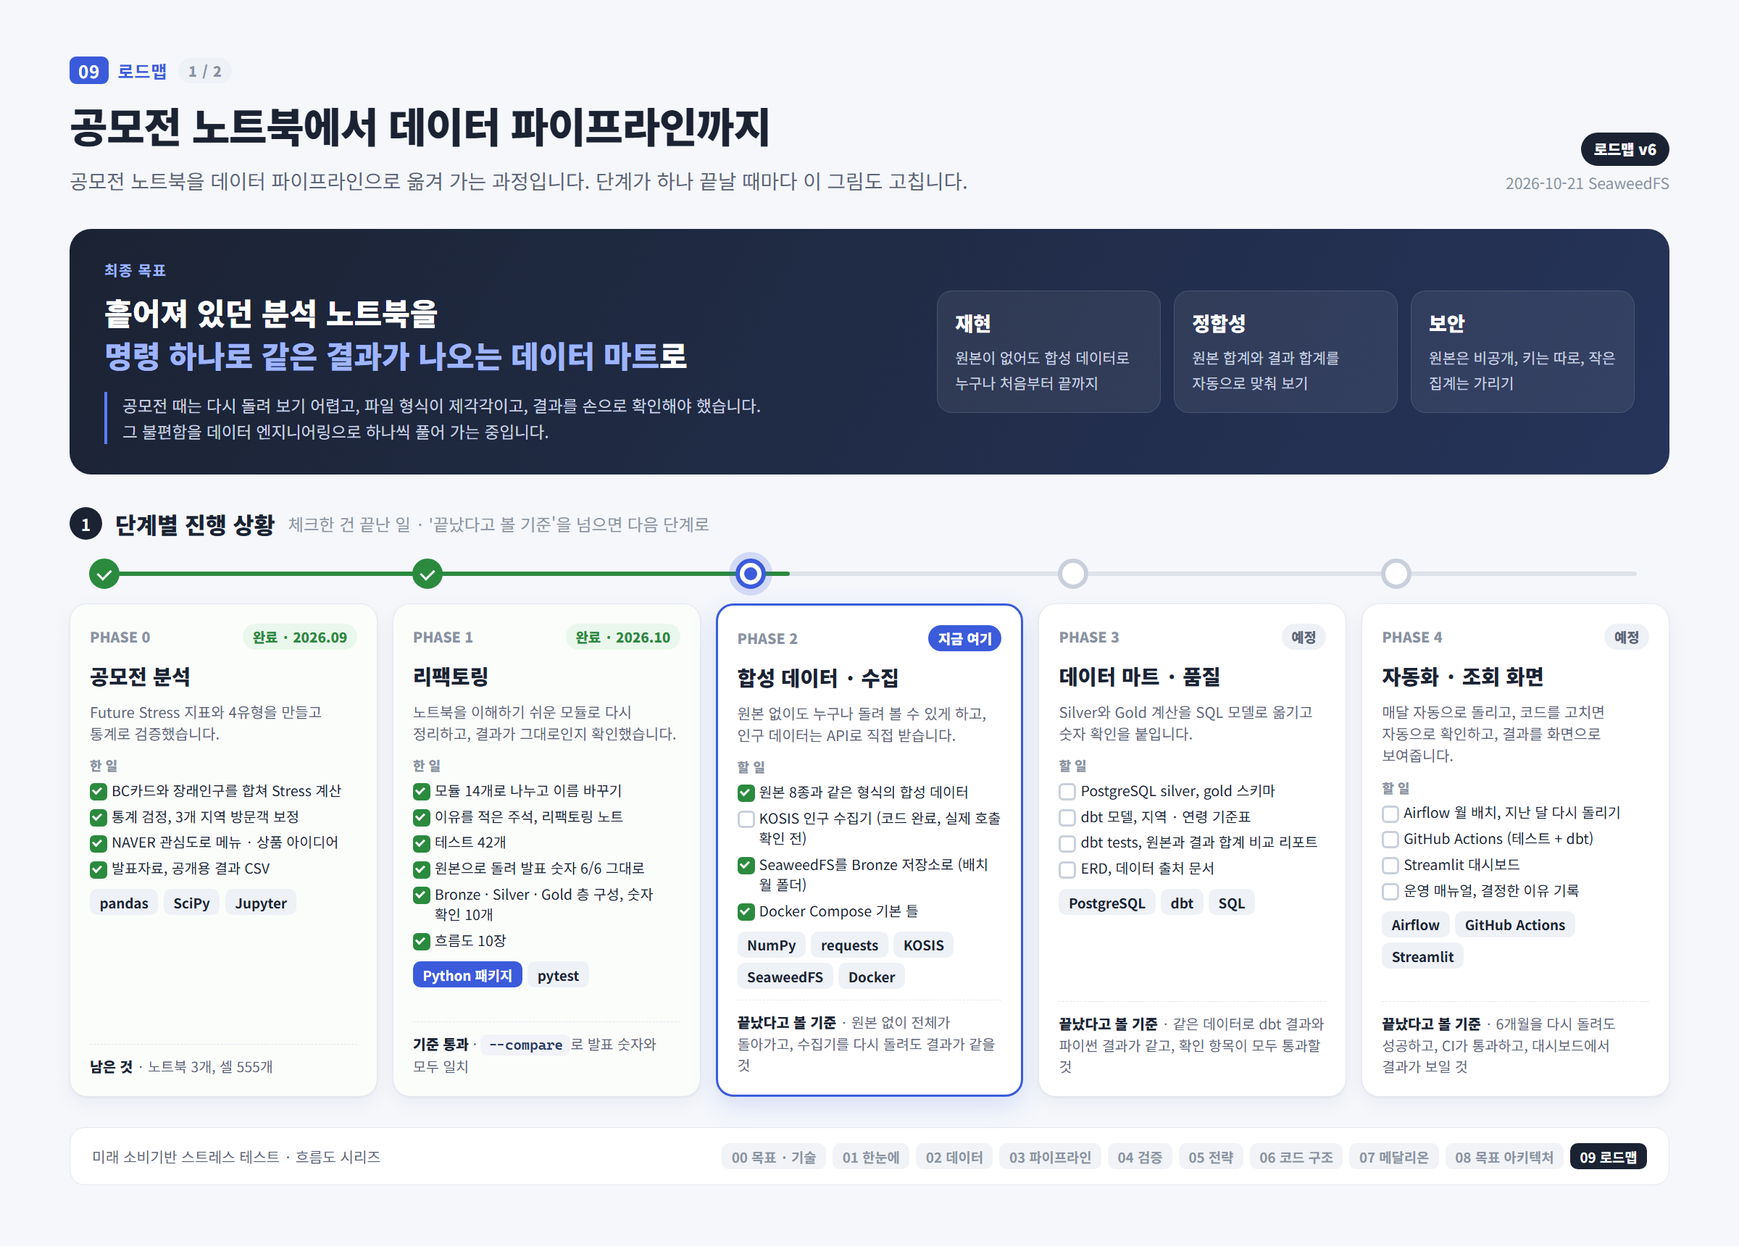
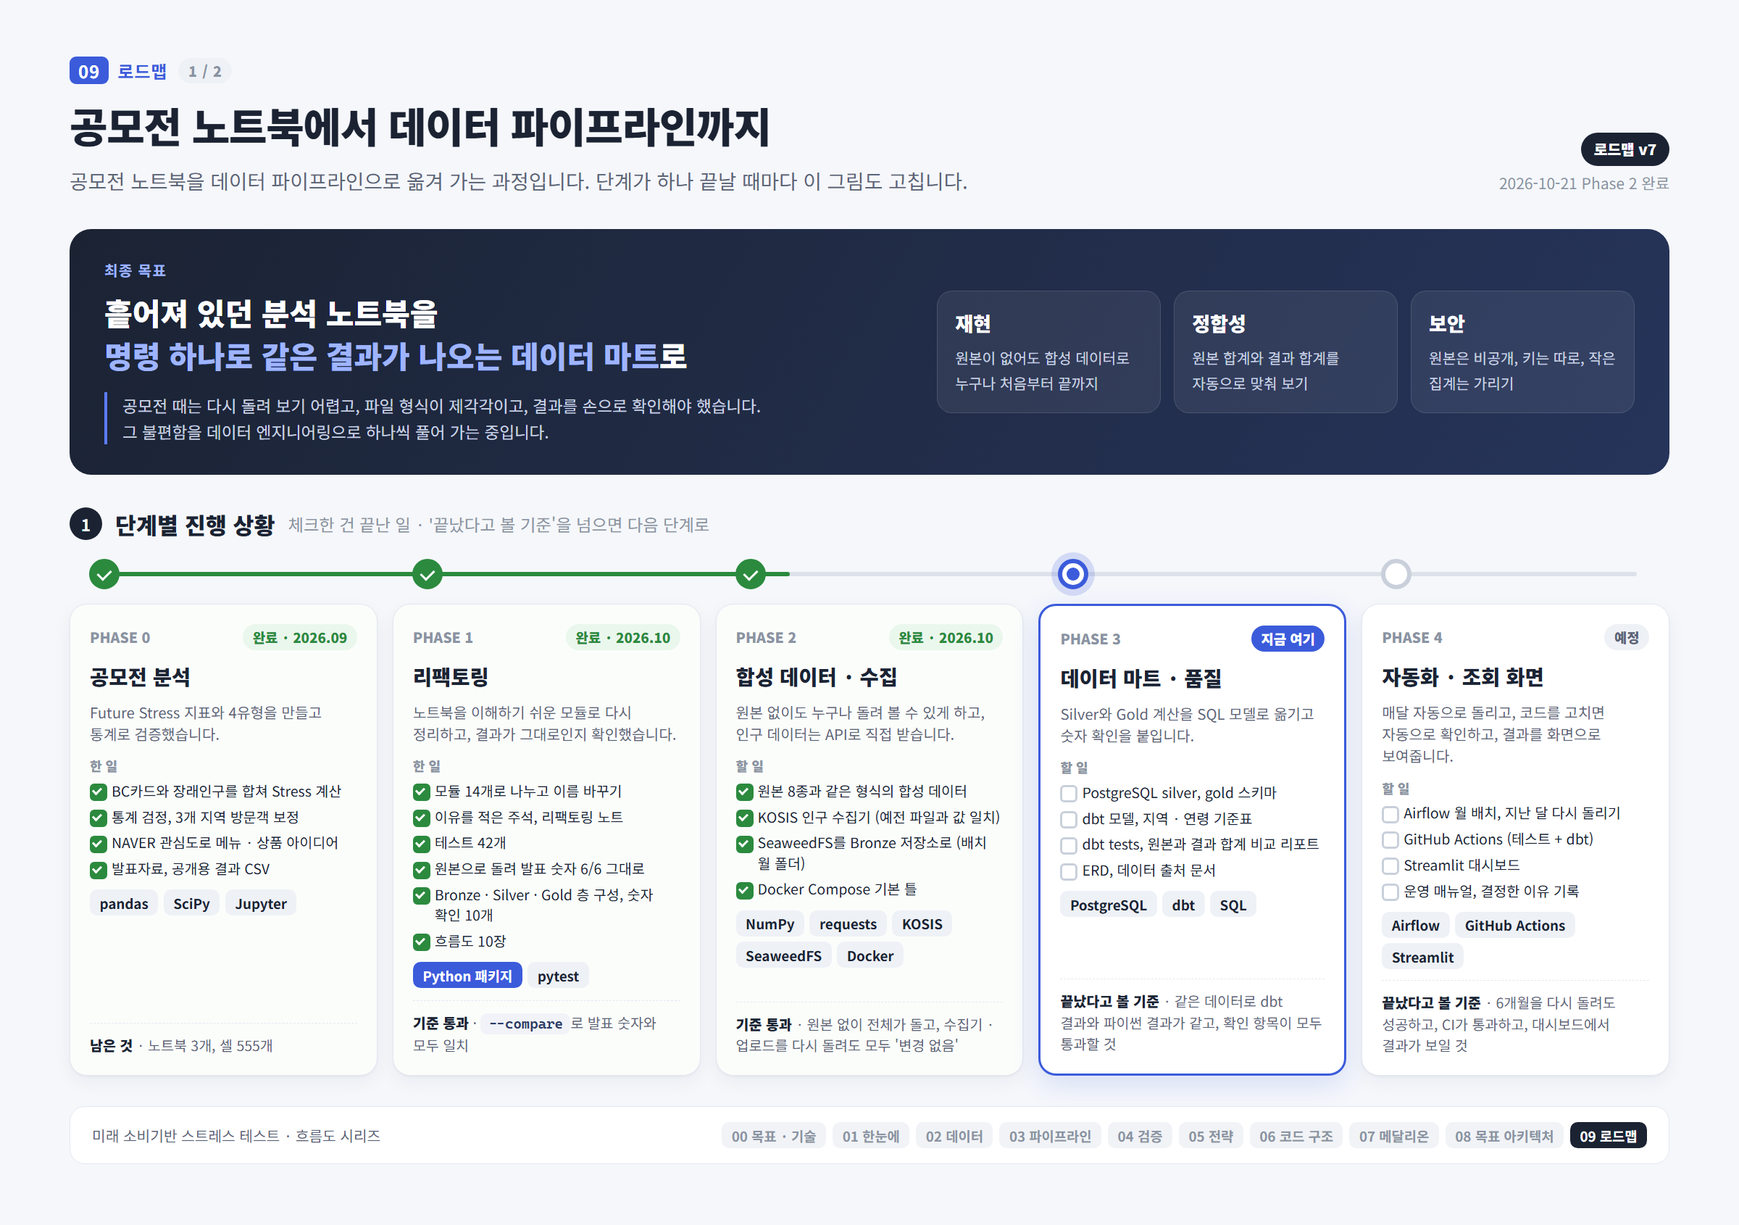
KOSIS API 실제 호출 결과 확인
- 서울 · 경기 × 4개 연도, 8번 요청 모두 성공 ('ALL' 요청 그대로 동작)
- 첫 비교에서 API에만 80칸씩: 시도 합계 행 이름이 원본마다 달랐음
  (API '서울' · '경기', 서울 CSV '합계', 경기 엑셀 '경기도')
  → 빼지 않고 '(시도 합계)'로 맞춰 합계 값까지 비교 (label_province_total)
- 결과: 서울 2,080칸 · 경기 2,560칸 모두 같음, 다시 받기 8개 모두 '변경 없음'
- 기록 09 · 작업 기록 · 리팩토링 노트, README, 흐름도 00 · 09 (Phase 2 완료, Phase 3 지금 여기)

diff --git a/docs/diagrams/09_roadmap.html b/docs/diagrams/09_roadmap.html
@@ -67,7 +67,7 @@
     <h1>공모전 노트북에서 데이터 파이프라인까지</h1>
     <p class="lede">공모전 노트북을 데이터 파이프라인으로 옮겨 가는 과정입니다. 단계가 하나 끝날 때마다 이 그림도 고칩니다.</p>
   </div>
-  <div class="version"><b>로드맵 v6</b><br>2026-10-21 SeaweedFS</div>
+  <div class="version"><b>로드맵 v7</b><br>2026-10-21 Phase 2 완료</div>
 </div>
 
 <div data-part="1" class="goal">
@@ -118,23 +118,23 @@
         <div class="dod"><b>기준 통과</b> · <code>--compare</code>로 발표 숫자와 모두 일치</div>
       </div></div>
 
-    <div class="phase now"><span class="marker"></span>
+    <div class="phase done"><span class="marker"></span>
       <div class="card p-card">
-        <div class="p-head"><span class="p-no">PHASE 2</span><span class="status s-now">지금 여기</span></div>
+        <div class="p-head"><span class="p-no">PHASE 2</span><span class="status s-done">완료 · 2026.10</span></div>
         <h4>합성 데이터 · 수집</h4>
         <p class="p-goal">원본 없이도 누구나 돌려 볼 수 있게 하고, 인구 데이터는 API로 직접 받습니다.</p>
         <div><div class="block-label">할 일</div><ul class="todo">
           <li class="ok">원본 8종과 같은 형식의 합성 데이터</li>
-          <li>KOSIS 인구 수집기 (코드 완료, 실제 호출 확인 전)</li>
+          <li class="ok">KOSIS 인구 수집기 (예전 파일과 값 일치)</li>
           <li class="ok">SeaweedFS를 Bronze 저장소로 (배치 월 폴더)</li>
           <li class="ok">Docker Compose 기본 틀</li></ul></div>
         <div class="techs"><span class="tech">NumPy</span><span class="tech">requests</span><span class="tech">KOSIS</span><span class="tech">SeaweedFS</span><span class="tech">Docker</span></div>
-        <div class="dod"><b>끝났다고 볼 기준</b> · 원본 없이 전체가 돌아가고, 수집기를 다시 돌려도 결과가 같을 것</div>
+        <div class="dod"><b>기준 통과</b> · 원본 없이 전체가 돌고, 수집기 · 업로드를 다시 돌려도 모두 '변경 없음'</div>
       </div></div>
 
-    <div class="phase"><span class="marker"></span>
+    <div class="phase now"><span class="marker"></span>
       <div class="card p-card">
-        <div class="p-head"><span class="p-no">PHASE 3</span><span class="status s-next">예정</span></div>
+        <div class="p-head"><span class="p-no">PHASE 3</span><span class="status s-now">지금 여기</span></div>
         <h4>데이터 마트 · 품질</h4>
         <p class="p-goal">Silver와 Gold 계산을 SQL 모델로 옮기고 숫자 확인을 붙입니다.</p>
         <div><div class="block-label">할 일</div><ul class="todo">
@@ -171,7 +171,7 @@
         <div class="log-row"><span class="date">2026-10-20</span><span class="dot" style="background:var(--green)"></span><div><b>Phase 1 리팩토링</b><p>모듈 13개, 테스트 38개로 정리하고 발표 숫자 6/6을 그대로 다시 냈습니다. 정리하다가 서울 90세 이상 누락 같은 문제를 새로 찾았습니다.</p></div></div>
         <div class="log-row"><span class="date">2026-10-21</span><span class="dot" style="background:var(--green)"></span><div><b>Bronze · Silver · Gold 구성</b><p>원본 보관, Parquet 6개, Parquet 16개로 나누고, 층 사이 숫자 확인 10개를 통과했습니다. 발표 숫자도 그대로입니다.</p></div></div>
         <div class="log-row"><span class="date">2026-10-21</span><span class="dot" style="background:var(--green)"></span><div><b>합성 데이터 생성기</b><p>원본 8종과 형식이 같은 파일을 만들어, 원본 없이도 숫자 확인 10개를 통과했습니다. 성별 코드 x, 업종명 공백처럼 원본에서 애먹었던 부분도 그대로 넣었습니다.</p></div></div>
-        <div class="log-row"><span class="date">2026-10-21</span><span class="dot" style="background:var(--amber)"></span><div><b>KOSIS 인구 수집기</b><p>서울 · 경기 장래인구를 API로 받는 코드와 테스트를 만들었습니다. 인증키를 넣고 예전 파일과 값이 같은지 확인하는 일이 남았습니다.</p></div></div>
+        <div class="log-row"><span class="date">2026-10-21</span><span class="dot" style="background:var(--green)"></span><div><b>KOSIS 인구 수집기</b><p>서울 · 경기 장래인구를 API로 받아, 예전에 내려받은 파일과 4,640칸이 모두 같은 것을 확인했습니다. 시도 합계 행 이름이 원본마다 달라 처음엔 불일치가 났습니다.</p></div></div>
         <div class="log-row"><span class="date">2026-10-21</span><span class="dot" style="background:var(--green)"></span><div><b>Bronze를 SeaweedFS로</b><p>MinIO 무료판 이미지가 사라져 같은 S3 방식의 SeaweedFS로 바꿨습니다. 원본 60개를 배치 월 폴더에 올리고 받아 지문을 맞춰 봤고, 발표 숫자도 그대로입니다.</p></div></div>
         <div class="log-row"><span class="date">다음</span><span class="dot" style="background:var(--primary)"></span><div><b>Phase 3 · PostgreSQL과 dbt</b><p>Silver · Gold 계산을 SQL 모델로 옮기고, 숫자 확인 10개를 dbt tests로 옮길 계획입니다.</p></div></div>
       </div>

diff --git a/docs/diagrams/00_goal_and_stack.html b/docs/diagrams/00_goal_and_stack.html
@@ -134,9 +134,9 @@
         <td class="alt-cell"><b>원본 공개</b> · 재배포가 안 됩니다. <b>Faker</b> · 이름, 주소가 아니라 숫자 분포만 필요합니다.</td>
       </tr>
       <tr>
-        <td class="layer-cell"><span class="lname">수집</span><br><span class="lphase t-primary">Phase 2</span></td>
+        <td class="layer-cell"><span class="lname">수집</span><br><span class="lphase t-green">Phase 2 · 사용 중</span></td>
         <td class="tech-cell"><span class="tname">requests</span><span class="tsub">KOSIS, NAVER API</span></td>
-        <td class="why-cell">인구 데이터를 매번 사이트에서 내려받던 일을 API로 바꿉니다. 실패하면 다시 시도하고, 같은 달을 두 번 받아도 결과가 같게 만듭니다.</td>
+        <td class="why-cell">사이트에서 내려받던 서울 · 경기 장래인구를 API로 바꿨습니다. 예전 파일과 <b>4,640칸이 모두 같았고</b>, 다시 받아도 파일이 바뀌지 않습니다.</td>
         <td class="alt-cell"><b>수동 다운로드</b> · 매달 반복하기 어렵고, 어떤 파일을 썼는지 기록이 남지 않았습니다.</td>
       </tr>
       <tr>

diff --git a/src/future_stress/kosis.py b/src/future_stress/kosis.py
@@ -43,6 +43,7 @@ import requests
 
 from . import config
 from .io_utils import read_env_value
+from .medallion import REGION_LABELS
 from .population import POPULATION_YEARS
 
 API_URL = "https://kosis.kr/openapi/Param/statisticsParameterData.do"
@@ -263,37 +264,45 @@ def find_dimension_columns(api_rows):
     return found
 
 
+# 시도 합계 행은 원본마다 이름이 달라서(API '서울' · '경기', 서울 CSV '합계', 경기 엑셀 '경기도') 한 이름으로 맞춥니다.
+# 빼지 않고 맞추는 이유: 시도 합계 값까지 API와 파일이 같은지 비교하기 위해서입니다.
+PROVINCE_TOTAL = "(시도 합계)"
+
+
+def label_province_total(regions, province):
+    """지역 이름 중 시도 합계 행(예: 서울특별시 · 서울 · 합계)을 PROVINCE_TOTAL로 바꿉니다."""
+    names = regions.astype(str).str.strip()
+    total_names = {province, REGION_LABELS.get(province, province), "합계", "계"}
+    return names.where(~names.isin(total_names), PROVINCE_TOTAL)
+
+
 def five_year_population_from_api(api_rows, province):
-    """API 응답 → 시군구 | 연령구간 | 연도 | 인구 (남녀 합계, 5세 구간, 시도 합계 행 제외)"""
+    """API 응답 → 시군구 | 연령구간 | 연도 | 인구 (남녀 합계, 5세 구간, 시도 합계는 '(시도 합계)')"""
     frame = pd.DataFrame(api_rows)
     items = frame["ITM_NM"].unique() if "ITM_NM" in frame else []
     if len(items) > 1:
         raise ValueError(f"항목이 여러 개입니다. 어떤 항목을 쓸지 정해야 합니다: {list(items)}")
     columns = find_dimension_columns(api_rows)
-    keep = (
-        (frame[columns["성별"]] == "계")
-        & frame[columns["연령"]].map(is_five_year_label)
-        & ~frame[columns["지역"]].isin([province, "합계", "계"])
-    )
+    keep = (frame[columns["성별"]] == "계") & frame[columns["연령"]].map(is_five_year_label)
     selected = frame[keep]
     return pd.DataFrame({
-        "시군구": selected[columns["지역"]].str.strip(),
+        "시군구": label_province_total(selected[columns["지역"]], province),
         "연령구간": selected[columns["연령"]].map(normalize_age_label),
         "연도": selected["PRD_DE"].astype(int),
         "인구": pd.to_numeric(selected["DT"], errors="coerce"),
     }).reset_index(drop=True)
 
 
-def five_year_population_from_seoul_file(path, years):
+def five_year_population_from_seoul_file(path, years, province="서울특별시"):
     """예전에 내려받은 서울 CSV → 같은 모양의 표. (닫히지 않은 따옴표 때문에 csv 모듈로 읽음, population.py 참고)"""
     with open(path, "r", encoding="utf-8-sig", newline="") as file:
         rows = list(csv.reader(file))
     raw = pd.DataFrame(rows[1:], columns=[name.strip() for name in rows[0]])
-    selected = raw[(raw["성별"] == "계") & raw["연령별"].map(is_five_year_label) & (raw["자치구별"] != "합계")]
+    selected = raw[(raw["성별"] == "계") & raw["연령별"].map(is_five_year_label)]
     long = selected.melt(id_vars=["자치구별", "연령별"], value_vars=[f"{y} 년" for y in years],
                          var_name="연도", value_name="인구")
     return pd.DataFrame({
-        "시군구": long["자치구별"].str.strip(),
+        "시군구": label_province_total(long["자치구별"], province),
         "연령구간": long["연령별"].map(normalize_age_label),
         "연도": long["연도"].str.replace(" 년", "", regex=False).astype(int),
         "인구": pd.to_numeric(long["인구"], errors="coerce"),
@@ -305,10 +314,10 @@ def five_year_population_from_kosis_excel(path, province, years):
     raw = pd.read_excel(path, sheet_name=0, header=0)
     raw[["시군구별", "성별"]] = raw[["시군구별", "성별"]].ffill()
     selected = raw[(raw["성별"] == "계") & (raw["연령별(2)"] == "소계")
-                   & raw["연령별(1)"].map(is_five_year_label) & (raw["시군구별"] != province)]
+                   & raw["연령별(1)"].map(is_five_year_label)]
     long = selected.melt(id_vars=["시군구별", "연령별(1)"], value_vars=years, var_name="연도", value_name="인구")
     return pd.DataFrame({
-        "시군구": long["시군구별"].str.strip(),
+        "시군구": label_province_total(long["시군구별"], province),
         "연령구간": long["연령별(1)"].map(normalize_age_label),
         "연도": long["연도"].astype(int),
         "인구": pd.to_numeric(long["인구"], errors="coerce"),
@@ -359,7 +368,7 @@ def compare_with_files(kosis_dir=None, raw_dir=None, years=None):
         api_table = five_year_population_from_api(read_landing_rows(kosis_dir, table, years), table.province)
         file_path = raw_dir / table.file_name
         if file_path.suffix == ".csv":
-            file_table = five_year_population_from_seoul_file(file_path, years)
+            file_table = five_year_population_from_seoul_file(file_path, years, table.province)
         else:
             file_table = five_year_population_from_kosis_excel(file_path, table.province, years)
         summary, _ = compare_population(api_table, file_table)

diff --git a/tests/test_kosis.py b/tests/test_kosis.py
@@ -120,7 +120,7 @@ def test_collect_twice_gives_same_file(tmp_path):
 
 def test_api_rows_keep_only_five_year_totals():
     rows = [
-        api_row("경기도", "계", "0 - 4세", 2040, 999),          # 시도 합계 → 제외
+        api_row("경기", "계", "0 - 4세", 2040, 500),            # 시도 합계 (API는 짧은 이름) → '(시도 합계)'
         api_row("수원시", "계", "계", 2040, 999),               # 연령 합계 → 제외
         api_row("수원시", "계", "0세", 2040, 999),              # 1세 단위 → 제외
         api_row("수원시", "남자", "0 - 4세", 2040, 999),        # 남자 → 제외
@@ -129,6 +129,7 @@ def test_api_rows_keep_only_five_year_totals():
     ]
     table = five_year_population_from_api(rows, "경기도")
     assert table.to_dict("records") == [
+        {"시군구": "(시도 합계)", "연령구간": "0-4세", "연도": 2040, "인구": 500},
         {"시군구": "수원시", "연령구간": "0-4세", "연도": 2040, "인구": 10},
         {"시군구": "수원시", "연령구간": "95세이상", "연도": 2040, "인구": 3},
     ]

diff --git a/docs/notes/09_api_collection.md b/docs/notes/09_api_collection.md
@@ -11,6 +11,7 @@
 | 2026-10-21 | 서울 · 경기만 KOSIS API로 | KOSIS 검색으로 통계표를 직접 찾음. 부산 구군별 자료는 KOSIS에 없음 |
 | 2026-10-21 | 받은 응답을 가공 없이 저장 | Bronze 원칙과 같음. 가공 규칙이 틀려도 다시 받지 않게 |
 | 2026-10-21 | 인증키는 다른 프로젝트 `.env`를 `--env-file`로 가리킴 | 사용자 "원격 제어 중이라 pc에 넣을 수 없거든" → 키를 복사하지 않고 가리키기만. 실제 호출 확인은 키를 넣은 뒤 |
+| 2026-10-21 | 시도 합계 행은 빼지 않고 이름을 맞춰 비교 | 사용자 "kosis api key 넣었어 확인해줘" → 첫 비교에서 합계 행 이름 차이(API '서울' vs 파일 '합계')로 80칸 불일치. 합계 값까지 확인하려고 `(시도 합계)`로 통일 |
 
 ## 왜 필요했나
 
@@ -55,7 +56,19 @@
 
 - 가짜 응답으로 확인한 것: 연결 끊김 → 503 → 성공이면 결과를 받음, 인증키 만료면 한 번만 요청하고 멈춤, 같은 응답을 순서만 바꿔 두 번 받아도 같은 파일, 분류 순서가 섞여 있어도 지역 · 성별 · 연령을 찾음, 한 칸만 달라도 비교가 '불일치'를 냄 (`test_kosis.py`, 8개)
 - 통계표 ID는 KOSIS 검색에서 직접 찾았습니다. 경기 표는 예전 엑셀 파일의 시트 4개(연령별 · 주요연령계층별 · 주요인구지표 · 인구변동요인)와 구성이 같아 같은 통계임을 확인했습니다.
-- **아직 확인하지 못한 것:** 실제 KOSIS 서버 호출과 파일 비교. 인증키를 넣은 뒤 확인하고 이 문서에 결과를 덧붙입니다. 'ALL' 요청을 서버가 받아 주는지, 응답의 연령 표기가 예상과 같은지도 그때 확인합니다.
+**실제 KOSIS 호출 (2026-10-21, 인증키를 넣은 뒤)**
+
+| 확인 | 결과 |
+|---|---|
+| 'ALL' 요청 | 서버가 그대로 받아 줌. 오류 · 재시도 없이 8번 요청 모두 성공 |
+| 받은 양 | 서울 연도마다 9,048행, 경기 11,136행 (4개 연도 × 2개 표, 약 58MB) |
+| 분류 순서 | 둘 다 C1 = 지역, C2 = 성별, C3 = 연령 (값의 모양으로 찾은 결과) · 항목 '추계인구' 하나 · 단위 '명' |
+| 파일과 비교 | **서울 2,080칸 · 경기 2,560칸 모두 같음** (시도 합계 포함, 다른 칸 0) |
+| 두 번째 받기 | 8개 파일 모두 '변경 없음' (`_collect_log.jsonl`에 두 번 기록) |
+
+- **처음 비교는 '불일치'였습니다.** 값이 다른 칸은 0개였지만, API에만 있는 칸이 서울 · 경기 각 80개였습니다. 80 = 연령 구간 20개 × 연도 4개라서 지역 하나가 더 있다는 뜻이었고, 확인해 보니 **시도 합계 행의 이름이 원본마다 달랐습니다**(API '서울' · '경기', 서울 CSV '합계', 경기 엑셀 '경기도'). 코드는 '서울특별시' · '경기도'만 합계로 알아보고 빼서, API의 '서울' 행이 남았습니다.
+- 합계 행을 빼는 대신 양쪽 모두 `(시도 합계)`라는 같은 이름으로 맞췄습니다 (`kosis.label_province_total()`). 그래서 시도 합계 값까지 비교됐고, 결과는 모두 같았습니다.
+- **결론:** 서울 · 경기 장래인구는 API 값이 예전에 사이트에서 내려받은 파일과 칸 하나까지 같습니다. 파일 대신 API를 원본으로 써도 분석 결과가 바뀌지 않습니다.
 
 ## 다른 방법과 고르지 않은 이유
 

diff --git a/README.md b/README.md
@@ -51,8 +51,8 @@
 | Phase 0 | 공모전 분석 (노트북) | 완료 |
 | Phase 1 | 리팩토링: 노트북 → `src/future_stress` 모듈 + 테스트, 발표 결과 6/6 재현 ([리팩토링 노트](docs/refactoring_notes.md)) | 완료 |
 | Phase 1.5 | 메달리온 아키텍처 로컬 세팅: Bronze → Silver → Gold, 계층 사이 대사 10개 | 완료 |
-| Phase 2 | 합성 데이터 생성기 · SeaweedFS Bronze 저장소 · Docker Compose (완료), KOSIS 수집기 (코드 완료, 실제 호출 확인 전) | 진행 중 |
-| Phase 3 | PostgreSQL + dbt 데이터 마트 · 품질 검사 | 예정 |
+| Phase 2 | 합성 데이터 생성기 · KOSIS 수집기(파일과 값 일치 확인) · SeaweedFS Bronze 저장소 · Docker Compose | 완료 |
+| Phase 3 | PostgreSQL + dbt 데이터 마트 · 품질 검사 | 다음 |
 | Phase 4 | Airflow 배치 · CI · 대시보드 | 예정 |
 
 ## 분석 질문
@@ -112,7 +112,7 @@ Future Stress가 음수이면 현재 소비구조가 미래 인구감소에 더 
 | 데이터 구조 · 저장 | 메달리온 아키텍처 (Bronze · Silver · Gold), Parquet (pyarrow) | 사용 중 |
 | 테스트 | pytest | 사용 중 |
 | 합성 데이터 | NumPy 생성기 (원본 8종과 같은 형식, 시드 고정) | 사용 중 |
-| 수집 | requests (KOSIS 장래인구 수집기 · NAVER API) | 코드 완료, KOSIS 실제 호출 확인 전 |
+| 수집 | requests (KOSIS 장래인구 수집기 · NAVER API) | 사용 중 |
 | 원본 보관 | SeaweedFS (S3 호환, boto3), Docker Compose | 사용 중 |
 | 저장 · 변환 · 품질 | PostgreSQL, dbt, dbt tests | Phase 3 |
 | 운영 · 제공 | Airflow, GitHub Actions, Streamlit | Phase 4 |

diff --git a/docs/notes/PROGRESS.md b/docs/notes/PROGRESS.md
@@ -3,6 +3,13 @@
 날짜별로 무엇을, 왜(사용자 말), 어떻게 했고, 숫자로 무엇을 확인했는지 적습니다. 최신이 위입니다.
 기술마다 정리한 내용은 [README 목차](README.md)의 주제 문서에 있습니다.
 
+## 2026-10-21 — KOSIS 실제 호출 확인
+
+- 사용자 "kosis api key 넣었어 확인해줘". 다른 프로젝트 `.env`는 여전히 비어 있었고, 수정 시각을 보니 이 저장소 `.env`가 방금 고쳐져 있어(키 값은 보지 않음) 기본 설정으로 실행.
+- 서울 · 경기 × 4개 연도, 8번 요청 모두 성공 ('ALL' 요청 그대로 됨). 서울 9,048행 · 경기 11,136행/연도.
+- 첫 비교: 다른 값 0, 하지만 API에만 80칸씩 → 시도 합계 행 이름이 원본마다 다름(API '서울' · '경기', 파일 '합계' · '경기도'). 이름을 `(시도 합계)`로 맞춘 뒤 **서울 2,080칸 · 경기 2,560칸 모두 일치**.
+- 다시 받기: 8개 모두 '변경 없음'.
+
 ## 2026-10-21 — Bronze를 객체 저장소(SeaweedFS)로 · 기록 방식 맞추기
 
 - 사용자 "seaweedFS로 진행하되, 왜 이 기술을 사용했는지 사용해서 이점이 뭐엿는지 등등에 대한 내용도 어딘가에 기록해줘" · "Market_Data_Platform 기록같은 경우 … 어떻게 공부용으로 기록하고 있는 지 확인해주면 돼".
